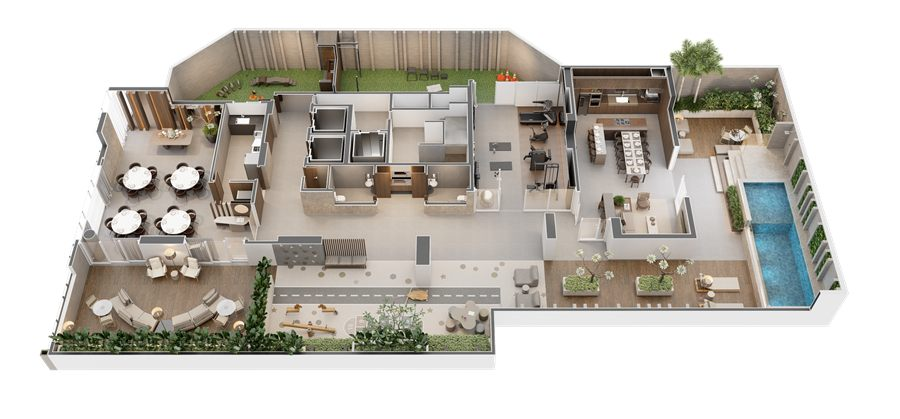
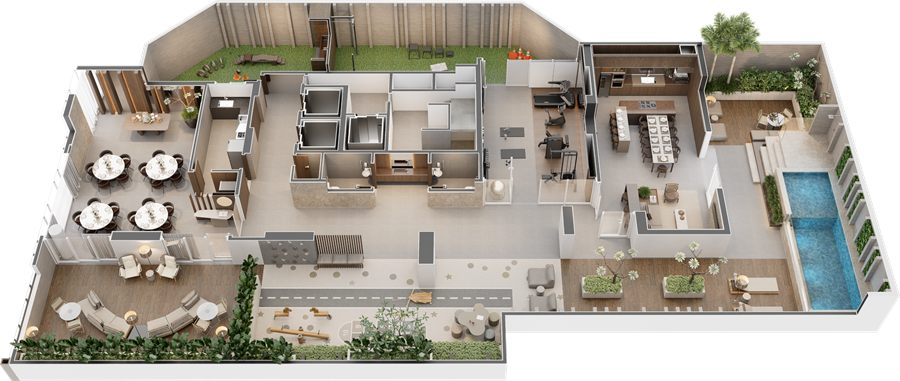
Atualiza assets da galeria

diff --git a/index.html b/index.html
@@ -958,21 +958,21 @@ const GALLERY_CONFIG = {
 
     // ═══ ÁREAS COMUNS ═══
     { id:49, type:'image', category:'areas-comuns', title:'Iso Áreas Comuns', src:'assets/areas-comuns/Iso Áreas Comuns.png', thumb:'assets/thumbs/areas-comuns/iso áreas comuns.jpg' },
-    { id:50, type:'image', category:'areas-comuns', title:'Academia', src:'assets/areas-comuns/Academia.png', thumb:'assets/thumbs/areas-comuns/academia.jpg' },
-    { id:51, type:'image', category:'areas-comuns', title:'Boulevard', src:'assets/areas-comuns/Boulevard.png', thumb:'assets/thumbs/areas-comuns/boulevard.jpg' },
-    { id:52, type:'image', category:'areas-comuns', title:'Garagem', src:'assets/areas-comuns/Garagem.png', thumb:'assets/thumbs/areas-comuns/garagem.jpg' },
-    { id:53, type:'image', category:'areas-comuns', title:'Gourmet 1', src:'assets/areas-comuns/Gourmet (1).png', thumb:'assets/thumbs/areas-comuns/gourmet (1).jpg' },
-    { id:54, type:'image', category:'areas-comuns', title:'Gourmet 2', src:'assets/areas-comuns/Gourmet (2).png', thumb:'assets/thumbs/areas-comuns/gourmet (2).jpg' },
-    { id:55, type:'image', category:'areas-comuns', title:'Hall 1', src:'assets/areas-comuns/Hall (1).png', thumb:'assets/thumbs/areas-comuns/hall (1).jpg' },
-    { id:56, type:'image', category:'areas-comuns', title:'Hall 2', src:'assets/areas-comuns/Hall (2).png', thumb:'assets/thumbs/areas-comuns/hall (2).jpg' },
-    { id:57, type:'image', category:'areas-comuns', title:'Lazer 1', src:'assets/areas-comuns/Lazer (1).png', thumb:'assets/thumbs/areas-comuns/lazer (1).jpg' },
-    { id:58, type:'image', category:'areas-comuns', title:'Lazer 2', src:'assets/areas-comuns/Lazer (2).png', thumb:'assets/thumbs/areas-comuns/lazer (2).jpg' },
-    { id:59, type:'image', category:'areas-comuns', title:'Lazer 3', src:'assets/areas-comuns/Lazer (3).png', thumb:'assets/thumbs/areas-comuns/lazer (3).jpg' },
-    { id:60, type:'image', category:'areas-comuns', title:'Pet Place', src:'assets/areas-comuns/Pet Place.png', thumb:'assets/thumbs/areas-comuns/pet place.jpg' },
-    { id:61, type:'image', category:'areas-comuns', title:'Playground', src:'assets/areas-comuns/Playground.png', thumb:'assets/thumbs/areas-comuns/playground.jpg' },
-    { id:62, type:'image', category:'areas-comuns', title:'Salão de Festas 1', src:'assets/areas-comuns/Salão de Festas (1).png', thumb:'assets/thumbs/areas-comuns/salão de festas (1).jpg' },
-    { id:63, type:'image', category:'areas-comuns', title:'Salão de Festas 2', src:'assets/areas-comuns/Salão de Festas (2).png', thumb:'assets/thumbs/areas-comuns/salão de festas (2).jpg' },
-    { id:64, type:'image', category:'areas-comuns', title:'Salão de Festas 3', src:'assets/areas-comuns/Salão de Festas (3).png', thumb:'assets/thumbs/areas-comuns/salão de festas (3).jpg' },
+    { id:51, type:'image', category:'areas-comuns', title:'Academia', src:'assets/areas-comuns/Academia.png', thumb:'assets/thumbs/areas-comuns/academia.jpg' },
+    { id:52, type:'image', category:'areas-comuns', title:'Boulevard', src:'assets/areas-comuns/Boulevard.png', thumb:'assets/thumbs/areas-comuns/boulevard.jpg' },
+    { id:53, type:'image', category:'areas-comuns', title:'Garagem', src:'assets/areas-comuns/Garagem.png', thumb:'assets/thumbs/areas-comuns/garagem.jpg' },
+    { id:54, type:'image', category:'areas-comuns', title:'Gourmet 1', src:'assets/areas-comuns/Gourmet (1).png', thumb:'assets/thumbs/areas-comuns/gourmet (1).jpg' },
+    { id:55, type:'image', category:'areas-comuns', title:'Gourmet 2', src:'assets/areas-comuns/Gourmet (2).png', thumb:'assets/thumbs/areas-comuns/gourmet (2).jpg' },
+    { id:56, type:'image', category:'areas-comuns', title:'Hall 1', src:'assets/areas-comuns/Hall (1).png', thumb:'assets/thumbs/areas-comuns/hall (1).jpg' },
+    { id:57, type:'image', category:'areas-comuns', title:'Hall 2', src:'assets/areas-comuns/Hall (2).png', thumb:'assets/thumbs/areas-comuns/hall (2).jpg' },
+    { id:58, type:'image', category:'areas-comuns', title:'Lazer 1', src:'assets/areas-comuns/Lazer (1).png', thumb:'assets/thumbs/areas-comuns/lazer (1).jpg' },
+    { id:59, type:'image', category:'areas-comuns', title:'Lazer 2', src:'assets/areas-comuns/Lazer (2).png', thumb:'assets/thumbs/areas-comuns/lazer (2).jpg' },
+    { id:60, type:'image', category:'areas-comuns', title:'Lazer 3', src:'assets/areas-comuns/Lazer (3).png', thumb:'assets/thumbs/areas-comuns/lazer (3).jpg' },
+    { id:61, type:'image', category:'areas-comuns', title:'Pet Place', src:'assets/areas-comuns/Pet Place.png', thumb:'assets/thumbs/areas-comuns/pet place.jpg' },
+    { id:62, type:'image', category:'areas-comuns', title:'Playground', src:'assets/areas-comuns/Playground.png', thumb:'assets/thumbs/areas-comuns/playground.jpg' },
+    { id:63, type:'image', category:'areas-comuns', title:'Salão de Festas 1', src:'assets/areas-comuns/Salão de Festas (1).png', thumb:'assets/thumbs/areas-comuns/salão de festas (1).jpg' },
+    { id:64, type:'image', category:'areas-comuns', title:'Salão de Festas 2', src:'assets/areas-comuns/Salão de Festas (2).png', thumb:'assets/thumbs/areas-comuns/salão de festas (2).jpg' },
+    { id:65, type:'image', category:'areas-comuns', title:'Salão de Festas 3', src:'assets/areas-comuns/Salão de Festas (3).png', thumb:'assets/thumbs/areas-comuns/salão de festas (3).jpg' },
   ],
 };
 
